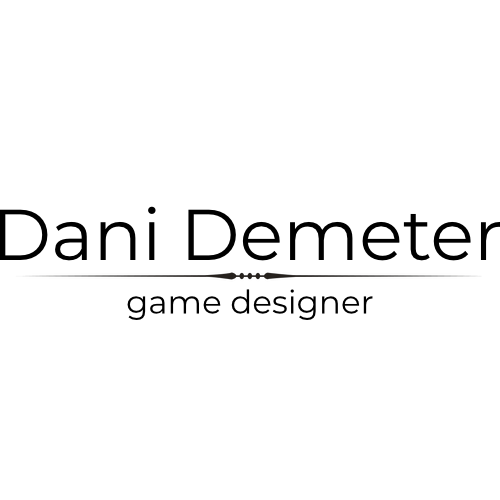
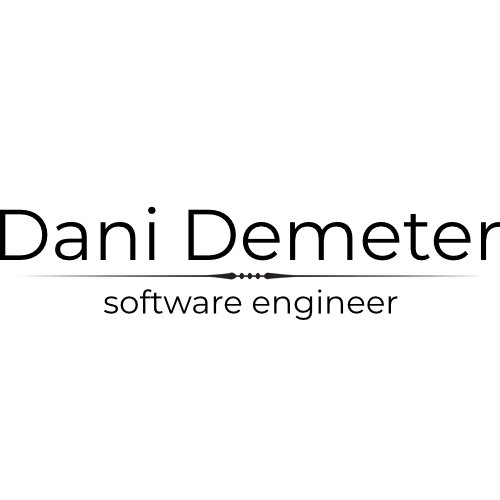
update

Changed region(s): [[0.21, 0.57, 0.81, 0.66]]

diff --git a/index.html b/index.html
@@ -32,8 +32,8 @@
             </div>
             <div class="AboutMe-Text-Wrapper">
                <div class="AboutMe-Text-SmallWrapper">
-                  <p class="AboutMe-text"><span class="big-text">Hi!</span> I'm a soon-to-be graduate of Santa Clara University with a degree in <span class="highlight-text">Computer Science</span> and <span class="highlight-text">Mathematics</span>. I have over two years experience working in the <span class="highlight-text">Imaginarium</span>, Santa Clara University's virtual reality lab. The fields I'm most passionate about are <span class="highlight-text">game design</span>, <span class="highlight-text">virtual reality</span>, and <span class="highlight-text">software engineering</span>.</p>
-                  <p class="AboutMe-text">In my free time, I enjoy playing <span class="highlight-text">video games</span>, <span class="highlight-text">sports</span>, and the <span class="highlight-text">piano</span>. I'm currently playing Apex Legends, League of Legends, and have recently picked up Smash Ultimate. While I don't play as often as I'd like, I love playing soccer and tennis.</p>
+                  <p class="AboutMe-text"><span class="big-text">Hi!</span> I'm a soon-to-be graduate of Santa Clara University with a degree in <span class="highlight-text">Computer Science</span> and <span class="highlight-text">Mathematics</span>. I have over two years experience working in the <span class="highlight-text">Imaginarium</span>, Santa Clara University's virtual reality lab. The fields I'm most passionate about are <span class="highlight-text">software engineering</span>, <span class="highlight-text">game design</span>, and <span class="highlight-text">virtual reality</span>.</p>
+                  <p class="AboutMe-text">In my free time, I enjoy playing <span class="highlight-text">video games</span>, <span class="highlight-text">sports</span>, and the <span class="highlight-text">piano</span>. I'm currently playing Breath of the Wild, League of Legends, and have recently picked up Smash Ultimate. While I don't play as often as I'd like, I love playing soccer and tennis.</p>
                </div>
             </div>
          </div>
